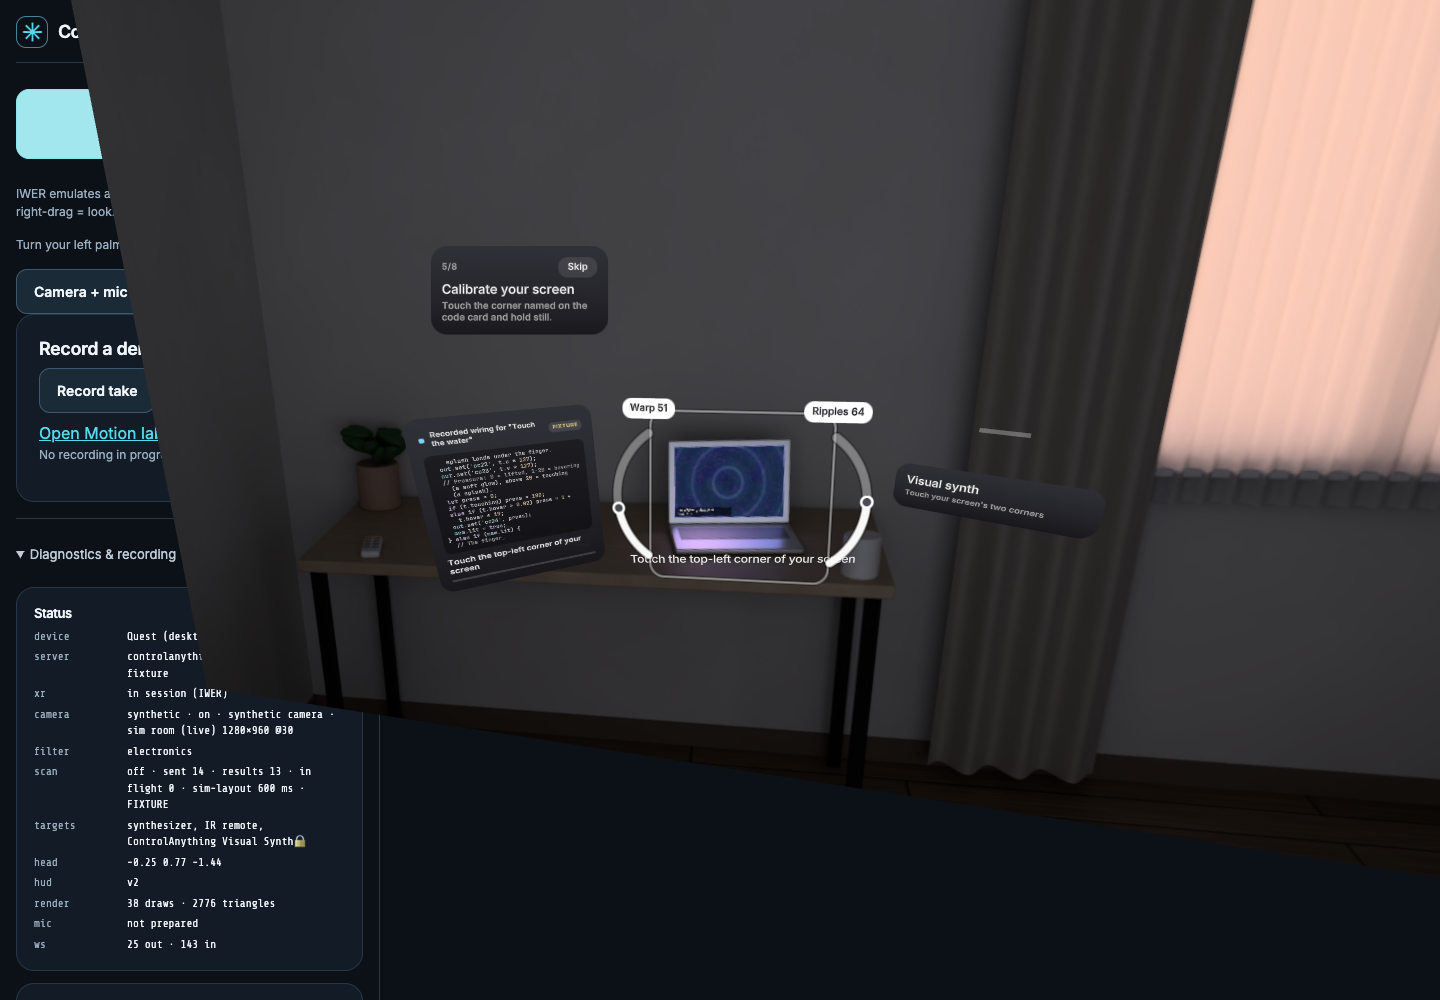
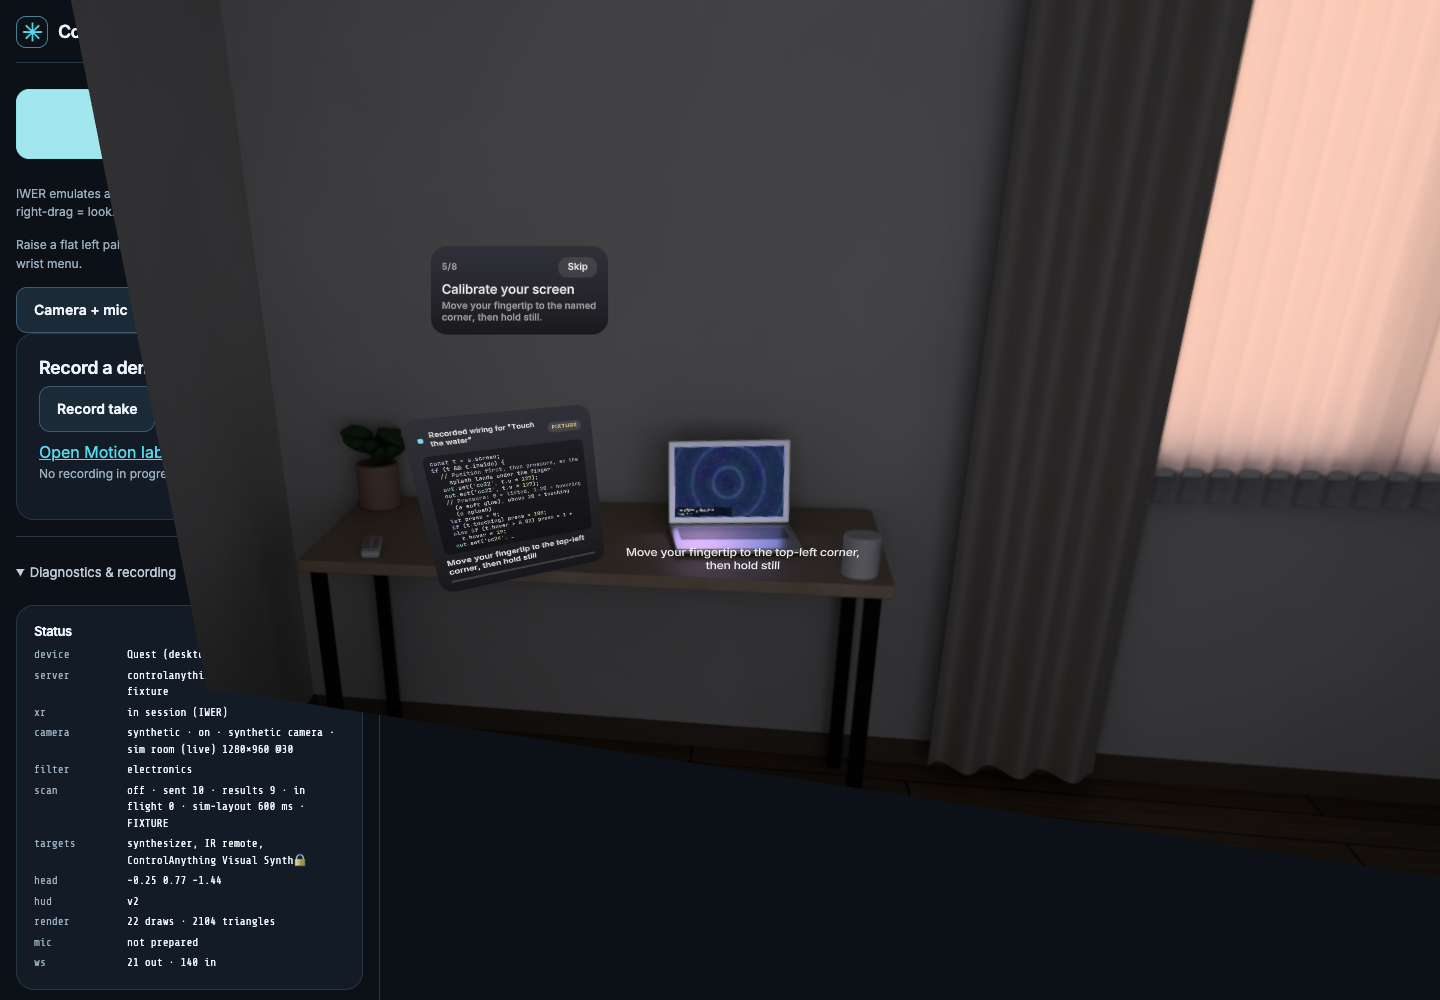
Verify and document the object-first voice-led demo

diff --git a/README.md b/README.md
@@ -15,19 +15,19 @@ Built for the **Meta Global AI Developer Hackathon** (Indie Developer track, *Pu
 
 One MacBook and one Quest 3. The Mac runs the server, a paired companion and a silent full-screen **visual synth**. Its capability manifest describes what the instrument accepts; the hand-to-device wiring is generated after your request.
 
-1. **Enter AR and find the Mac.** Pair with the companion's QR code or passcode. In Annotate, SAM 3.1 provides the outlines. Raise a flat left palm deliberately to open the wrist palette: **Annotate / Control**, **Electronics / Objects / All**, **Visual synth**, **Musical synth**, **Buddy**, **Stop all** and **Exit**.
+1. **Enter AR and find the Mac.** Pair with the companion's QR code or passcode. SAM 3.1 provides the outlines; point and pinch the Mac directly. The wrist menu is a backup: **Find objects**, contextual **Ask Muse**, **More**, **Stop all** and held **Exit**. More contains instruments, Buddy, Tutorial, layers and filters.
 2. **Pinch the MacBook.** The companion opens its visuals. A setup ring shows the link, Muse-written driver, effect verification and interface preparation. A saved driver may be reused with its source disclosed. Driver prefetch is **off by default**; `CE_PREFETCH=1` is an opt-in rehearsal mode.
-3. **Ask what your hands should do.** Choose **Touch the water**, **Hands as knobs** or **Surprise me**, or hold the card's microphone button and speak. The selected device has no hand interaction before this request. Large request buttons replace the old side dials in the normal flow.
+3. **Ask what your hands should do.** Hold the selected device's **Ask Muse** control and speak. One example, **Touch the water**, remains available for silent use or unavailable microphone permissions. **Ideas** reveals **Hands as knobs** and **Surprise me**. The device has no hand interaction before the explicit request, and the ordinary path requires no mode/settings menu.
 4. **Watch Muse write.** JavaScript streams into a code card beside the Mac and into the companion's code view. The server validates it, dry-runs synthetic signal traces in `node:vm`, and checks the driver actions it uses. The source is visibly **Live**, **FIXTURE** or **Template**.
 5. **Calibrate for touch.** Follow the highlighted top-left then bottom-right screen corners, holding the fingertip still until each corner is captured. A hand-only program skips calibration. A saved screen plane is reused for that selected device when valid; **Recalibrate screen** is available.
-6. **Touch the water.** After the program is ready and calibration completes, its Web Worker maps fingertip position to the visual synth's touch inputs. Touch and drag: ripples splash at the contact point and leave a wake. Lift away to release. There is no separate Perform step on this route.
+6. **Touch the water.** After the program is ready and calibration completes, its Web Worker maps fingertip position to the visual synth's touch inputs. Touch and drag: ripples splash at the contact point and leave a wake. Lift away to release. The initial code/instructions give way to one passive gesture cue, with the generated instructions and source still visible. Forms and control lists clear away; no separate Perform step is required.
 7. **Stop and ask again.** Show both palms out to stop the current hand wiring. The selected, checked device stays ready: choose another suggestion or speak a new request, and Muse writes a new program. **Stop all** in the wrist palette (or `X` in the emulator) stops and disarms all controls. Hold **Exit** to leave AR.
 
 The deliberate palm menu closes after a selection and stays out of the way while the hands are controlling the device. Live hand feedback defaults to fingertips; optional hand outlines use `?hands=1`. Full joint tracking remains available for recording. Tutorial guidance and all control feedback live in AR. The [acceptance checklist](docs/DEMO-ACCEPTANCE.md) distinguishes emulator checks from the remaining real-Quest run.
 
-For a longer request, choose **Read request** after stopping the wiring. A larger flat panel opens in front of you with readable text, Back/Next and **Close**; surrounding controls are hidden while reading. It stays at its opening position rather than following every head movement. Closing never restarts the wiring. Requests over 500 characters are rejected with an instruction to shorten them, rather than silently cut off.
+For a longer request, choose **Details → Read request** after stopping the wiring. A larger flat panel opens in front of you with readable text, Back/Next and **Close**; surrounding controls are hidden while reading. It stays at its opening position rather than following every head movement. Details also offers deliberate code inspection and screen recalibration. Opening/closing these views never asks Muse or restarts wiring. Requests over 500 characters are rejected with an instruction to shorten them, rather than silently cut off.
 
-**Optional musical route:** choose **Musical synth** to open **ControlAnything Synth**, a separate browser instrument on the paired Mac. It starts with sound locked; the present user must choose **Sound on** on that Mac. Complete setup, then ask Muse how your hands should play. Muse writes the note/gate and parameter mapping after the request; there is no built-in playable hand preset. The authored engine provides a two-octave C minor scale, filter, envelope, delay and three sound presets. Both palms stop the current wiring and release its note, keeping the checked instrument ready for another ask. **Stop all**, closing/hiding the panel or disconnecting locks sound again. This route does not send physical MIDI. Its real-headset and audible acceptance remain pending; muted tests use `/companion/?mute=1`, independently of the server's `CE_MAC_SILENT` setting.
+**Optional musical route:** choose **More → Music** to open **ControlAnything Synth**, a separate browser instrument on the paired Mac. It starts with sound locked; the present user must choose **Sound on** on that Mac. Complete setup, then ask Muse how your hands should play. Muse writes the note/gate and parameter mapping after the request; there is no built-in playable hand preset. The authored engine provides a two-octave C minor scale, filter, envelope, delay and three sound presets. Both palms stop the current wiring and release its note, keeping the checked instrument ready for another ask. **Stop all**, closing/hiding the panel or disconnecting locks sound again. This route does not send physical MIDI. Its real-headset and audible acceptance remain pending; muted tests use `/companion/?mute=1`, independently of the server's `CE_MAC_SILENT` setting.
 
 ## Meta model calls vs. OS and browser features
 
@@ -88,7 +88,7 @@ In emulator runs, the camera at about 1 m usually does **not** see the Mac's scr
 
 ## More than one synth
 
-- **Muse buddy.** *Wrist palette → Buddy.* A small desk mascot gives you quests (*"Show me something green!"*). Hold up a real object and Muse Spark reacts to it. Muse Image paints a sticker for its shelf.
+- **Muse buddy.** *Wrist palette → More → Buddy.* A small desk mascot gives you quests (*"Show me something green!"*). Hold up a real object and Muse Spark reacts to it. Muse Image paints a sticker for its shelf.
 - **Physical objects as controllers.** Once a device is armed, choose *Use an object* and pick a mug or bottle. SAM 3.1 finds it; once you pick it up it follows the hand that holds it (WebXR joints, One Euro filter). Lifting it drives the first control and sliding it drives the second. This is an earlier deterministic controller mode, not proof that Muse generated its hand-to-object behavior; it is outside the new wiring demo.
 - **DJI Osmo gimbal.** A Bluetooth adapter for the Osmo Mobile: DUML framing, a safety envelope (≤ 90°/s, pan ±120°, tilt ±45°) and three links (`CE_OSMO=ble` via a small bleak helper, `web` via Chrome Web Bluetooth, `mock`). Server integration covers identify, link, driver and controls. Current evidence is mock/terminal testing, not a demonstrated headset-driven physical move. A physical move test is `npx tsx apps/server/scripts/osmo.ts test --move`.
 - **Hand and head pose recording.** Record a take from the headset: passthrough video plus head and 25-joint hand poses at up to 30 Hz. On the Quest it is under `?lab=1`; in the emulator it is in the side panel. Review it in **Motion lab** (`/companion/tracking/`): video and 3D hands on one timeline, tracking gaps, *Export dataset* for physical-AI training data. See [tracking review](docs/TRACKING-REVIEW.md).

diff --git a/docs/DEMO-ACCEPTANCE.md b/docs/DEMO-ACCEPTANCE.md
@@ -17,9 +17,9 @@ Hardware: **Meta Quest 3 + MacBook**, with the paired companion showing the sile
 | Step | Wearer action | Required observation | Current run |
 |---|---|---|---|
 | W1 | Enter AR; look at the Mac | Camera and hands work; SAM 3.1 outline appears. No competing camera tab. Annotate frame rate is measured again after the SAM-only change. | Pending |
-| W2 | Raise a deliberate flat left palm | Wrist menu is easy to target; Annotate / Control and filters are clear. It closes after selection and stays away from active control. | Pending |
+| W2 | Raise a deliberate flat left palm | Quick actions are easy to target; More/Back reaches instruments, Tutorial, layers and filters without changing the device or running anything. It closes after selection and stays away from active control. | Pending |
 | W3 | Pinch the MacBook box once | Same selected object continues through setup. Mac visuals open/recover; progress and source are visible. A generic electronic-device box may need identification, but should not silently require a second pinch. | Pending |
-| W4 | Wait for setup | Card asks **What should your hands do?**, with large request buttons. No side dials or parameter handles appear in the default flow; hands do not drive the device yet. Driver verification is labelled camera / renderer / acknowledgement honestly. | Pending |
+| W4 | Wait for setup | A compact device invitation makes voice primary and offers one example; Ideas reveals the other suggestions. No side dials or parameter handles appear in the default flow; hands do not drive the device yet. Driver verification is labelled camera / renderer / acknowledgement honestly. | Pending |
 | W5 | Choose **Touch the water**, or hold-to-talk and ask for it | Exact request stays on the selected device. JavaScript streams into the AR code card and Mac code view; a live take is labelled Live with the actual model, not FIXTURE or Template. | Pending |
 | W6 | Watch checking finish | Validating → dry-run → action verification → ready. Failed generation never appears as successful live generation. Retain source, model, code and relevant call/step/exec records. | Pending |
 | W7 | Hold the fingertip still at highlighted top-left, then bottom-right corner | Each corner visibly progresses. Resting hands do not capture a corner by accident. No device touch output runs before calibration succeeds. Saved valid calibration may skip this step; capture one fresh calibration in the proof take. | Pending |
@@ -50,7 +50,7 @@ ControlAnything Synth is a browser instrument, not the physical OP-1 Field. Its 
 
 | Step | Action and required observation | Current run |
 |---|---|---|
-| M1 | Choose Musical synth in Quest. Its Mac panel opens automatically, sound remains locked and no verification note or hand interaction starts. | Pending |
+| M1 | Choose More → Music in Quest. Its Mac panel opens automatically, sound remains locked and no verification note or hand interaction starts. | Pending |
 | M2 | The present user explicitly chooses Sound on on the Mac. The port becomes available; complete setup and confirm controls in Quest. In automation, master gain must remain zero. | Pending |
 | M3 | Ask Muse how the hands should play. Watch exact request, streamed source, checks and honest Live/FIXTURE/Template label. Setup alone must not install a hand mapping. | Pending |
 | M4 | Use the generated gesture. Verify scale-note and gate changes, analyser pitch/level, release and tracking-loss behavior. Hand-only wiring needs no screen calibration. Audible behavior is an additional attended check only with the user's explicit permission. | Pending |
@@ -74,7 +74,7 @@ A separate single-call live `muse-spark-1.3` probe generated a program that pass
 - **Touching does nothing:** inspect current wiring/source, selected target, calibration and actual permitted actions. A dial or the old Perform demo is not a substitute for this acceptance step.
 - **Camera failed:** check single-session ownership and existing permission/retry state. Keep one Quest tab; reload only outside AR.
 - **Failed or cancelled wiring:** keep the error and source label visible. A labelled template can be demonstrated as a fallback, not represented as live Muse-written code.
-- **Long request:** after stopping, choose Read request and page through the full accepted transcript in the larger front-facing panel. Other controls must clear, text must fit without shrinking/clipping, and head movement/page presses must not reposition it. Close must restore the stopped workspace without restarting a program or making a model call. An over-500-character request must explain the limit without replacing the active wiring.
+- **Long request:** after stopping, choose Details → Read request and page through the full accepted transcript in the larger front-facing panel. Other controls must clear, text must fit without shrinking/clipping, and head movement/page presses must not reposition it. Close must restore the stopped workspace without restarting a program or making a model call. An over-500-character request must explain the limit without replacing the active wiring.
 - **Physical OP-1 requested from a software card:** explain the wrong target and point to Annotate → select OP-1 → Correct device if needed. Do not create a visual substitute, switch targets silently or send hardware commands.
 
 ## Evidence boundary and next footage
@@ -118,3 +118,8 @@ Measure with `node scripts/quest-cdp.mjs --fps 450` (≈5 s at 90 Hz) in each st
 | Run | Time | Build | Result | Notes / clip |
 |---|---|---|---|---|
 | 1 | Nov 4 10:54:45–10:57 | HEAD after f3861cc (tab reloaded 10:54:39) | Pinch → armed in 3 s; Perform drives Warp, Ripples and Hue on the Mac; armed/perform 81 fps at p95; Annotate 52 fps at p95 | Stop (G10) and Exit (G11) not observed: at 10:57:34 the XR session went hidden (headset off or Home) while still armed, with no panic/Stop sent. Earlier attempt 10:29 failed: a stale Quest tab held the camera |
+
+
+### Object-first acceptance additions
+
+The main water path must require no wrist/mode/settings visit. With mic disabled, the one contextual example must still generate wiring only when pressed. Ideas/Details/More/Back must not ask Muse, record speech, change the target or resume controls. During play the device form clears, but Muse’s generated gesture/clutch instruction and Live/FIXTURE/Template source remain in one passive cue. Streaming code and checks must still appear automatically after asking. Stop all and held Exit remain reachable on both quick-menu pages; Tutorial is under More. Real permission/PTT quality and wearer comfort remain separate acceptance.

diff --git a/docs/ARCHITECTURE.md b/docs/ARCHITECTURE.md
@@ -132,3 +132,8 @@ Historical evidence remains scoped:
 The main HUD is a bounded Horizon-style shell with authored layout, generated descriptions and generated wiring. It does not promise arbitrary generated 3D meshes, universal device control or calibration-free touch. The normal route has large request buttons and no side dials or manual Perform button. Dials and legacy Perform are available only when deliberately enabled with `?perform=1`. Sustained request reading uses a separate flat panel, placed once about1m ahead and below eye level; the normal workspace clears while it is open. That reader remains inside the immersive session.
 
 Canvas, older assistant/gesture-map experiments and other lab UI remain off the primary path behind `?lab=1`. Buddy and Motion lab have their own evidence boundaries. Submission claims should describe only the paths actually demonstrated.
+
+
+## Object-first presentation
+
+The default device invitation prioritizes hold-to-talk, with one silent example; Ideas and Details are local presentation states. The quick wrist menu exposes Find objects/contextual Ask Muse plus More and persistent Stop all/Exit. Utilities remain one level away. Writing/checks and the initial generated explanation appear automatically. When the wiring controller collapses the code view, the HUD clears duplicate forms into one noninteractive cue that retains the actual generated explanation and source. Its pointer events and hand-UI capture are disabled. On-demand code inspection never changes server authorization. This presentation layer does not add gesture mappings, generation or execution authority.
